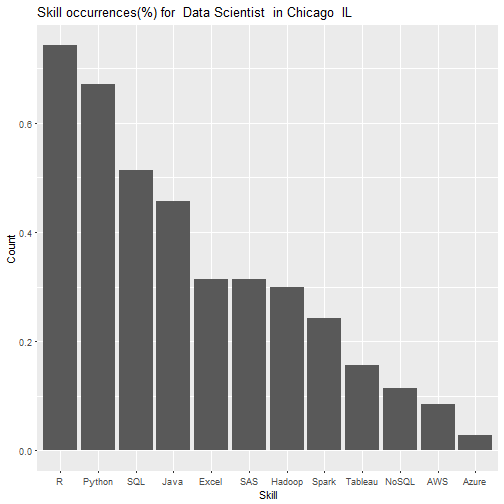
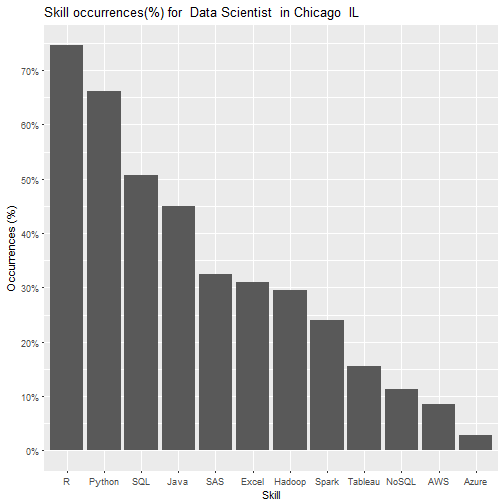
better visual: set y axis breaks and percentage formatting

diff --git a/README.md b/README.md
@@ -90,7 +90,7 @@ cat('Total job count: ', job_count)
 ```
 
 ```
-## Total job count:  87
+## Total job count:  88
 ```
 
 Scraping the job links and page link requires deeper knowledge in html. I spent quite some time to extract those two parts out. Jobs are under html nodes:_h2_ _a_, links for search result pages are more complex, I had to use XPath to find them out. It's almost a must knowing the basic of html/css. Good lesson for me. Hadley actually pointed out a useful tool [SelectorGadget](http://selectorgadget.com/) but I didn't find it to be effective on Indeed's website. Indeed's html appears to be unstructured. Not sure if they do that on purpose to prevent scarping or not. Anyhow, the code is much simpler than the process to reach them properly.
@@ -202,11 +202,11 @@ print(arrange(results$running, -count))
 
 ```
 ##      skill count
-## 1        R    52
+## 1        R    53
 ## 2   Python    47
 ## 3      SQL    36
 ## 4     Java    32
-## 5      SAS    22
+## 5      SAS    23
 ## 6    Excel    22
 ## 7   Hadoop    21
 ## 8    Spark    17
@@ -228,8 +228,9 @@ jt <- str_replace_all(job_title, '\\+|\\\"', ' ')
 loc <- str_replace_all(location, '\\%2C+|\\+',' ')
 
 # Visualization
-ggplot(results$running, aes(reorder(skill,-count), count)) + geom_bar(stat="identity") + 
-  labs(x = 'Skill', y = 'Count', title = paste0('Skill occurrences(%) for ', jt, ' in ', loc))
+p <- ggplot(results$running, aes(reorder(skill,-count), count)) + geom_bar(stat="identity") + 
+  labs(x = 'Skill', y = 'Occurrences (%)', title = paste0('Skill occurrences(%) for ', jt, ' in ', loc)) 
+p + scale_y_continuous(labels = scales::percent, breaks = seq(0,1,0.1)) 
 ```
 
 ![plot of chunk unnamed-chunk-8](figure/unnamed-chunk-8-1.png)
